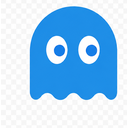
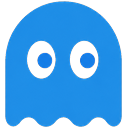
fix(pacman): 白底 chroma key + Word 階段動畫 + 字體放大
PNG 修圖
- 新增 alpha_key_white():處理 ChatGPT 把透明 checker pattern 烘焙成
  不透明白色像素的 PDF 圖示、藍鬼
- 白鬼跟白底分不開,放棄不用
- icon_pdf.png 64% 白底 / ghost_blue.png 58% 白底 → 都清乾淨

字體放大
- 圖示下方標籤:size 9 → 12 bold,只顯示「姓名」(自動截短)
- 底部狀態列:size 11 bold → 14 bold,進度文字 11 → 13
- 標題「📥 待處理 / 📤 已完成」: 11 bold → 13 bold
- 面板高度 240 → 260,圖示間距 64 → 88

兩階段動畫
- Step 1/2:產生 Word 文件中…(用 step_cb 推進,共 total_steps 階段)
- Step 2/2:Word → PDF 轉檔中…(每份 PDF 餵真實檔名)
- 之前只看得到 Step 2 的問題已修

diff --git a/health-plan-docx-generator/build_assets.py b/health-plan-docx-generator/build_assets.py
@@ -44,6 +44,34 @@ def alpha_key_dark(img: Image.Image, threshold: int = 28,
     return img
 
 
+def alpha_key_white(img: Image.Image, threshold: int = 235,
+                     soft_band: int = 20) -> Image.Image:
+    """把白底/淺色背景的像素 alpha 化為透明。
+
+    判斷準則:R/G/B 三色都高於 threshold (灰白色)就視為背景。
+    threshold ~ threshold-soft_band 之間做漸進透明,讓邊緣不留鋸齒。
+    用於處理 ChatGPT 把透明 checker pattern 烘焙成不透明白色像素的圖。
+    """
+    img = img.convert("RGBA")
+    px = img.load()
+    w, h = img.size
+    low = threshold - soft_band
+    for y in range(h):
+        for x in range(w):
+            r, g, b, a = px[x, y]
+            min_rgb = min(r, g, b)
+            max_rgb = max(r, g, b)
+            # 必須是「高亮度且接近灰色」(飽和度低)才當背景
+            if min_rgb >= threshold and (max_rgb - min_rgb) < 25:
+                px[x, y] = (r, g, b, 0)
+            elif min_rgb >= low and (max_rgb - min_rgb) < 25:
+                # 漸進透明
+                ratio = 1.0 - (min_rgb - low) / soft_band
+                new_a = int(a * ratio)
+                px[x, y] = (r, g, b, new_a)
+    return img
+
+
 def trim_transparent(img: Image.Image, padding: int = 4) -> Image.Image:
     """裁掉四周完全透明的邊距,留 padding 像素的緩衝。"""
     img = img.convert("RGBA")
@@ -72,9 +100,12 @@ def fit_square(img: Image.Image, size: int) -> Image.Image:
 
 def process(src_name: str, dst_name: str, *,
              remove_dark: bool = False,
+             remove_white: bool = False,
              size: int = 128,
              dark_threshold: int = 28,
-             dark_soft: int = 24) -> None:
+             dark_soft: int = 24,
+             white_threshold: int = 235,
+             white_soft: int = 20) -> None:
     src_path = os.path.join(SRC, src_name)
     dst_path = os.path.join(DST, dst_name)
     if not os.path.exists(src_path):
@@ -84,34 +115,37 @@ def process(src_name: str, dst_name: str, *,
     if remove_dark:
         img = alpha_key_dark(img, threshold=dark_threshold,
                              soft_band=dark_soft)
+    if remove_white:
+        img = alpha_key_white(img, threshold=white_threshold,
+                              soft_band=white_soft)
     img = trim_transparent(img, padding=2)
     img = fit_square(img, size)
     img.save(dst_path, "PNG")
-    print(f"  [OK] {src_name} → {dst_name} ({size}x{size})")
+    flags = []
+    if remove_dark:
+        flags.append("去黑")
+    if remove_white:
+        flags.append("去白")
+    flag_str = f" [{'+'.join(flags)}]" if flags else ""
+    print(f"  [OK] {src_name} → {dst_name} ({size}x{size}){flag_str}")
 
 
-def crop_ghost_trio() -> None:
-    """三鬼合圖切成個別。圖大致是「上紅、下左藍、下右白」配置。"""
+def crop_ghost_blue_from_trio() -> None:
+    """從三鬼合圖切藍鬼(紅鬼用單獨那張更乾淨,白鬼跟白底分不開放棄)。"""
     src_path = os.path.join(SRC, "ghosts_trio_raw.png")
     if not os.path.exists(src_path):
         print(f"  [skip] ghosts_trio_raw.png 不存在")
         return
     img = Image.open(src_path).convert("RGBA")
     w, h = img.size
-
-    # 紅(上半中央)、藍(下半左)、白(下半右)
-    # 給寬鬆框,後面的 trim_transparent 會貼齊
-    boxes = {
-        "ghost_red.png": (w // 4, 0, 3 * w // 4, h // 2 + 20),
-        "ghost_blue.png": (0, h // 2 - 20, w // 2 + 10, h),
-        "ghost_white.png": (w // 2 - 10, h // 2 - 20, w, h),
-    }
-    for name, box in boxes.items():
-        sub = img.crop(box)
-        sub = trim_transparent(sub, padding=4)
-        sub = fit_square(sub, 128)
-        sub.save(os.path.join(DST, name), "PNG")
-        print(f"  [OK] ghosts_trio_raw.png → {name} (128x128)")
+    # 藍鬼在下半左
+    blue_box = (0, h // 2 - 20, w // 2 + 10, h)
+    sub = img.crop(blue_box)
+    sub = alpha_key_white(sub, threshold=235, soft_band=20)
+    sub = trim_transparent(sub, padding=4)
+    sub = fit_square(sub, 128)
+    sub.save(os.path.join(DST, "ghost_blue.png"), "PNG")
+    print(f"  [OK] ghosts_trio_raw.png → ghost_blue.png (128x128) [去白+裁]")
 
 
 def main():
@@ -126,26 +160,26 @@ def main():
     process("pacman_close_raw.png", "pacman_close.png",
             remove_dark=True, size=128, dark_threshold=22, dark_soft=20)
 
-    print("\n圖示 (Word 去黑底、PDF 已透明)")
+    print("\n圖示 (Word 去黑底、PDF 去白底 ChatGPT checker)")
     process("icon_word_raw.png", "icon_word.png",
             remove_dark=True, size=96, dark_threshold=22, dark_soft=20)
     process("icon_pdf_raw.png", "icon_pdf.png",
-            remove_dark=False, size=96)
+            remove_white=True, size=96)
 
-    print("\n鬼魂 (單獨紅鬼直接用,三鬼圖切藍/白)")
-    # 用 ChatGPT 多生的單獨紅鬼,品質比從三鬼裁切更好
+    print("\n鬼魂 (紅鬼用獨立那張、藍鬼從三鬼切+去白底,白鬼放棄)")
     process("ghost_red_raw.png", "ghost_red.png",
-            remove_dark=False, size=128)
-    crop_ghost_trio()
-    # crop_ghost_trio 也產出 ghost_red.png 但會被前一行覆蓋
-    # 重做,讓單獨紅鬼是最終版
-    process("ghost_red_raw.png", "ghost_red.png",
-            remove_dark=False, size=128)
+            remove_white=True, size=128)
+    crop_ghost_blue_from_trio()
 
-    print("\n閃光特效")
-    # sparkle 圖底部有些雜訊區塊,需要去掉
+    print("\n閃光特效 (去黑底)")
     process("sparkle_raw.png", "sparkle.png",
             remove_dark=True, size=96, dark_threshold=28, dark_soft=20)
+
+    # 確認沒留下舊的 ghost_white
+    old = os.path.join(DST, "ghost_white.png")
+    if os.path.exists(old):
+        os.remove(old)
+        print(f"  [刪除] 舊的 ghost_white.png(白鬼跟白底分不開,放棄)")
 
     print("\n全部完成")
 

diff --git a/health-plan-docx-generator/pacman_animator.py b/health-plan-docx-generator/pacman_animator.py
@@ -55,16 +55,16 @@ class PacManAnimator(tk.Frame):
     PANEL_BG = "#1a2332"     # 內框背景
     BORDER = "#2c3e50"
 
-    PACMAN_SIZE = 80
-    DOC_SIZE = 56
-    DOC_SPACING = 64
-    SPARKLE_SIZE = 56
+    PACMAN_SIZE = 88
+    DOC_SIZE = 60
+    DOC_SPACING = 88        # 加大讓檔名(姓名)能完整顯示
+    SPARKLE_SIZE = 60
 
-    HEIGHT = 240             # 整個面板高
-    LANE_Y_OFFSET = 70       # 兩條跑道距頂端
+    HEIGHT = 260             # 整個面板高(加大讓字夠空間)
+    LANE_Y_OFFSET = 76       # 兩條跑道距頂端
     PACMAN_X = 0             # 由 _layout() 計算
 
-    MAX_QUEUE_VISIBLE = 6    # 左右各最多顯示幾個檔案
+    MAX_QUEUE_VISIBLE = 5    # 左右各最多顯示幾個檔案(配合放大字體)
 
     def __init__(self, master, **kwargs):
         super().__init__(master, bg=self.BG, **kwargs)
@@ -89,11 +89,11 @@ class PacManAnimator(tk.Frame):
         bottom.pack(fill="x", padx=12, pady=(2, 10))
         tk.Label(bottom, textvariable=self.status_var,
                  bg=self.PANEL_BG, fg="#52b3e2",
-                 font=("Microsoft JhengHei UI", 11, "bold"),
+                 font=("Microsoft JhengHei UI", 14, "bold"),
                  anchor="w").pack(side="left")
         tk.Label(bottom, textvariable=self.progress_var,
                  bg=self.PANEL_BG, fg="#a0aec0",
-                 font=("Microsoft JhengHei UI", 11),
+                 font=("Microsoft JhengHei UI", 13),
                  anchor="e").pack(side="right")
 
         # 載入素材
@@ -261,14 +261,14 @@ class PacManAnimator(tk.Frame):
                       fill="#2c3e50", width=1)
 
         # 標題:左「待轉 Word」、右「已轉 PDF」
-        c.create_text(20, 16,
-                      text="📥 待轉 Word",
+        c.create_text(20, 18,
+                      text="📥 待處理",
                       anchor="w", fill="#7fc4e6",
-                      font=("Microsoft JhengHei UI", 11, "bold"))
-        c.create_text(w - 20, 16,
-                      text="📤 已轉 PDF",
+                      font=("Microsoft JhengHei UI", 13, "bold"))
+        c.create_text(w - 20, 18,
+                      text="📤 已完成",
                       anchor="e", fill="#e88989",
-                      font=("Microsoft JhengHei UI", 11, "bold"))
+                      font=("Microsoft JhengHei UI", 13, "bold"))
 
     def _render_queue_left(self, cx: int, cy: int):
         """左側 Word 隊列。最近的(下一個被吃)貼近 Pac-Man。"""
@@ -312,14 +312,16 @@ class PacManAnimator(tk.Frame):
     def _draw_filename(self, x: int, y: int, name: str, anchor: str = "n"):
         if not name:
             return
-        # 截短檔名顯示
-        display = name
-        if len(display) > 14:
-            display = display[:13] + "…"
+        # 圖示下方只顯示「姓名」(檔名通常是 {姓名}_明細領據_{類別}.pdf,
+        # 取第一段就好,完整檔名留給底部狀態列)
+        stem = os.path.splitext(name)[0]
+        display = stem.split("_")[0] if "_" in stem else stem
+        if len(display) > 6:
+            display = display[:5] + "…"
         self.canvas.create_text(
             x, y, text=display, anchor=anchor,
-            fill="#a0aec0",
-            font=("Microsoft JhengHei UI", 9))
+            fill="#dde6ed",
+            font=("Microsoft JhengHei UI", 12, "bold"))
 
     # ─── 狀態文字 ───
     def _format_status(self, in_name: str, out_name: str) -> str:

diff --git a/health-plan-docx-generator/app.py b/health-plan-docx-generator/app.py
@@ -104,7 +104,7 @@ class App(ctk.CTk):
         ctk.CTkLabel(title_inner, text="⚡  核銷文件產生器",
                      font=ctk.CTkFont(size=26, weight="bold"),
                      text_color="#3498db").pack(side="left")
-        ctk.CTkLabel(title_inner, text="  v35",
+        ctk.CTkLabel(title_inner, text="  v36",
                      font=ctk.CTkFont(family=MONO_FONT, size=13),
                      text_color="#52b3e2").pack(side="left", padx=(10, 0))
         ctk.CTkLabel(banner, text="台北市醫師公會 ◆ 健康台灣深耕計畫",
@@ -1326,11 +1326,26 @@ class App(ctk.CTk):
 
         steps_done = 0
 
+        # ── Pac-Man 動畫 Phase 1:Word 文件產生階段 ──
+        # 此時還不知道每份 docx 具體檔名,先用 step 編號當佔位,
+        # 主要目的是讓使用者看到 Pac-Man 在動、知道進度有在跑。
+        if self.pacman is not None:
+            self.after(0, lambda t=total_steps:
+                       self.pacman.start(t, [""] * t))
+            self.after(0, lambda: self.pacman.set_label(
+                "Step 1/2:產生 Word 文件中…"))
+
         def step_cb():
             nonlocal steps_done
             steps_done += 1
             self.after(0, lambda: self.progress.set(
                 0.1 + 0.85 * steps_done / total_steps))
+            # 每完成一階段就餵 Pac-Man 一口
+            if self.pacman is not None:
+                self.after(0, lambda d=steps_done, t=total_steps:
+                           self.pacman.feed(
+                               in_name=f"Word_{d}.docx",
+                               out_name=f"完成 {d}/{t}"))
 
         # ── 逐 scope 產出 ──
         all_pending_docx: list[str] = []
@@ -1381,11 +1396,14 @@ class App(ctk.CTk):
             self.after(0, lambda: self._log(
                 f"\n批次轉換 {total_pdf} 份 Word → PDF（共用一個 Word 程序）..."))
 
-            # Pac-Man 動畫:預先把所有待轉檔名餵進去,讓左側隊列可以看到接下來要吃的
+            # ── Pac-Man 動畫 Phase 2:Word → PDF 批次轉檔 ──
+            # 重新啟動 Pac-Man,清空 Phase 1 的 placeholder,改用真實檔名
             todo_basenames = [os.path.basename(p) for p in all_pending_docx]
             if self.pacman is not None:
                 self.after(0, lambda t=total_pdf, names=todo_basenames:
                            self.pacman.start(t, names))
+                self.after(0, lambda: self.pacman.set_label(
+                    "Step 2/2:Word → PDF 轉檔中…"))
 
             def _pdf_progress(done, total, name):
                 # 每一份都餵 Pac-Man(每 ~150ms 一次,順)
